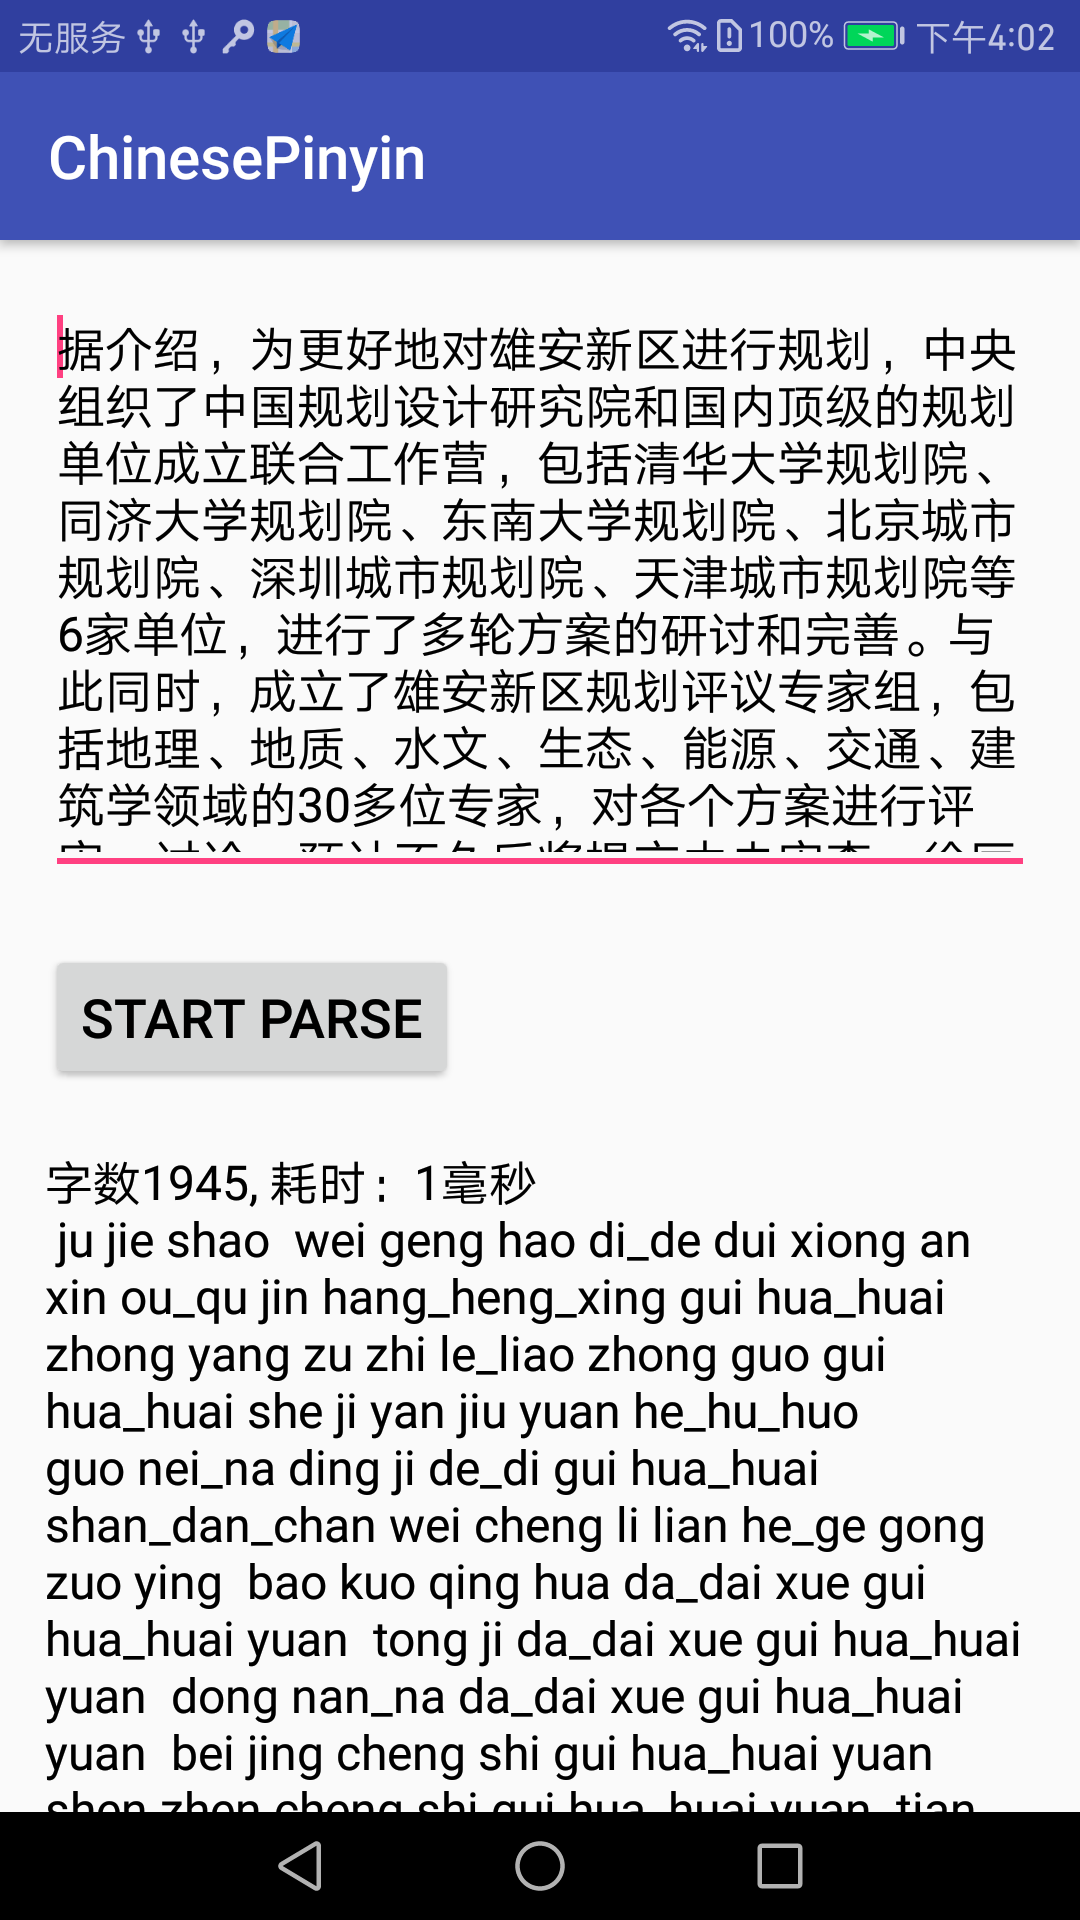
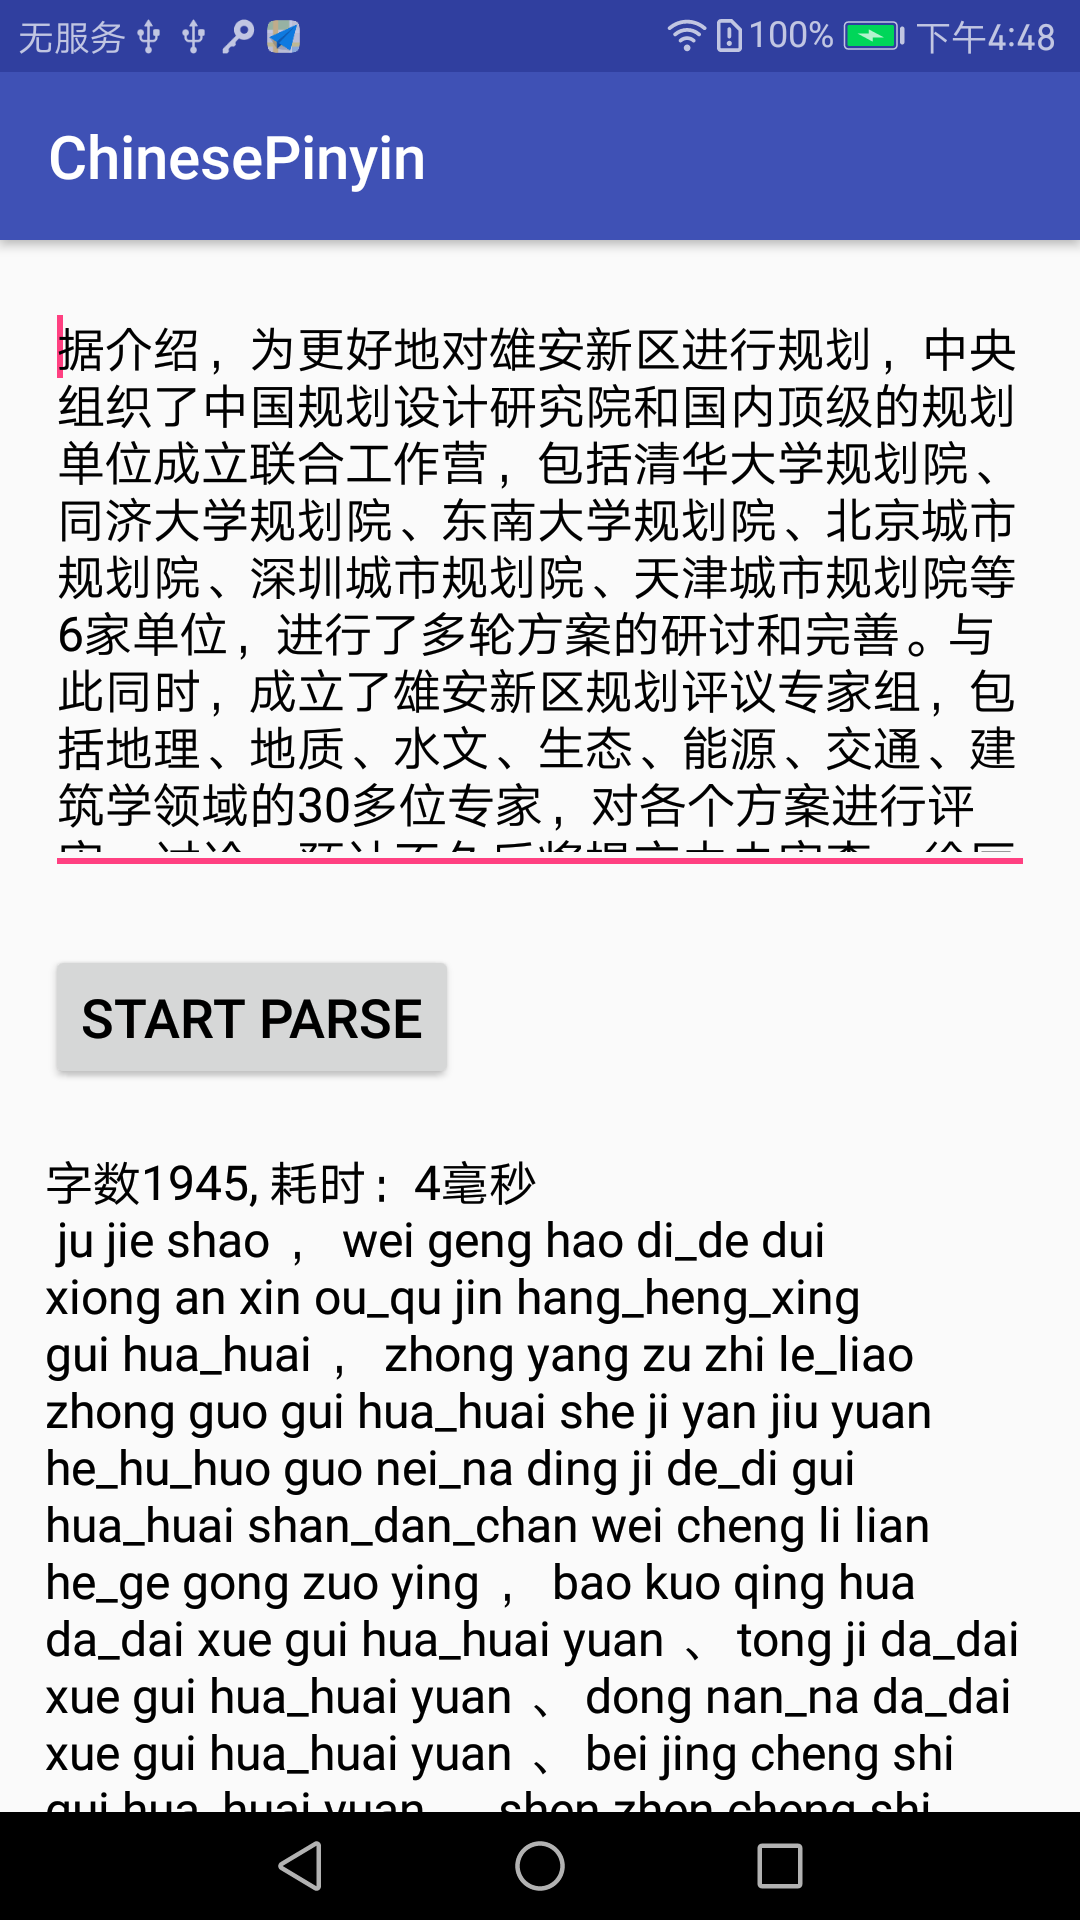
parse charactor and symbol

Changed region(s): [[0.0306, 0.5938, 0.9472, 0.9688], [0.9472, 0.0, 0.9778, 0.0312]]

diff --git a/pinyin4j/src/main/java/com/micky/pinyin4j/Pinyin.java b/pinyin4j/src/main/java/com/micky/pinyin4j/Pinyin.java
@@ -73,7 +73,7 @@ public class Pinyin {
                 return String.valueOf(str).toLowerCase();
             }
         }
-        return "";
+        return String.valueOf(c);
     }
 
     public void init(Context context) {
